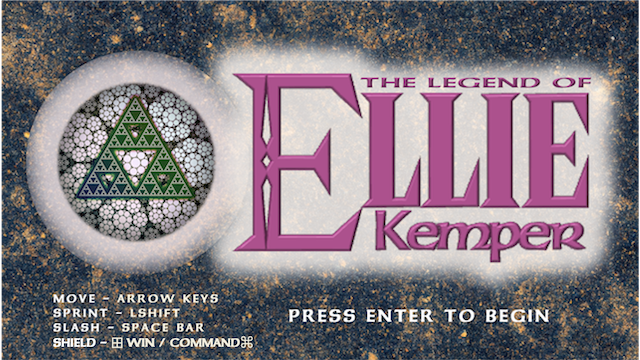
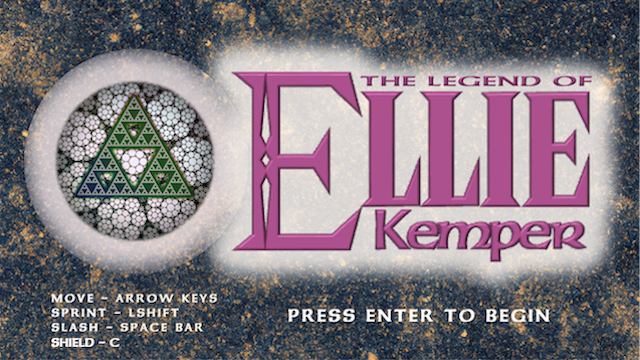
FINAL final v2.02 update
fixed glitches with shield

diff --git a/v2/code/player.py b/v2/code/player.py
@@ -100,6 +100,8 @@ class Player(Entity):
 
     def input(self):
         if not self.attacking and not self.defending:
+            self.direction.x = 0
+            self.direction.y = 0
             # getting all the keys that are being pressed
             keys = pygame.key.get_pressed()
 
@@ -161,10 +163,13 @@ class Player(Entity):
                 self.create_attack()
 
             # shield input
-            if keys[pygame.K_LSUPER] and not self.defending:
+            if keys[pygame.K_c] and not self.defending:
                 self.defending = True
                 self.defend_time = pygame.time.get_ticks()
                 self.create_shield()
+        else:
+            self.direction.x = 0
+            self.direction.y = 0
     
     def get_status(self):
 
@@ -198,9 +203,13 @@ class Player(Entity):
             if 'attack' in self.status:
                 self.status = self.status.replace('_attack', '')
                 self.destroy_attack()
+                self.direction.x = 0
+                self.direction.y = 0
             if 'defend' in self.status:
                 self.status = self.status.replace('_defend', '')
                 self.destroy_shield()
+                self.direction.x = 0
+                self.direction.y = 0
 
     def move(self,speed):
         # we have to normalize the self.direction vector in order
